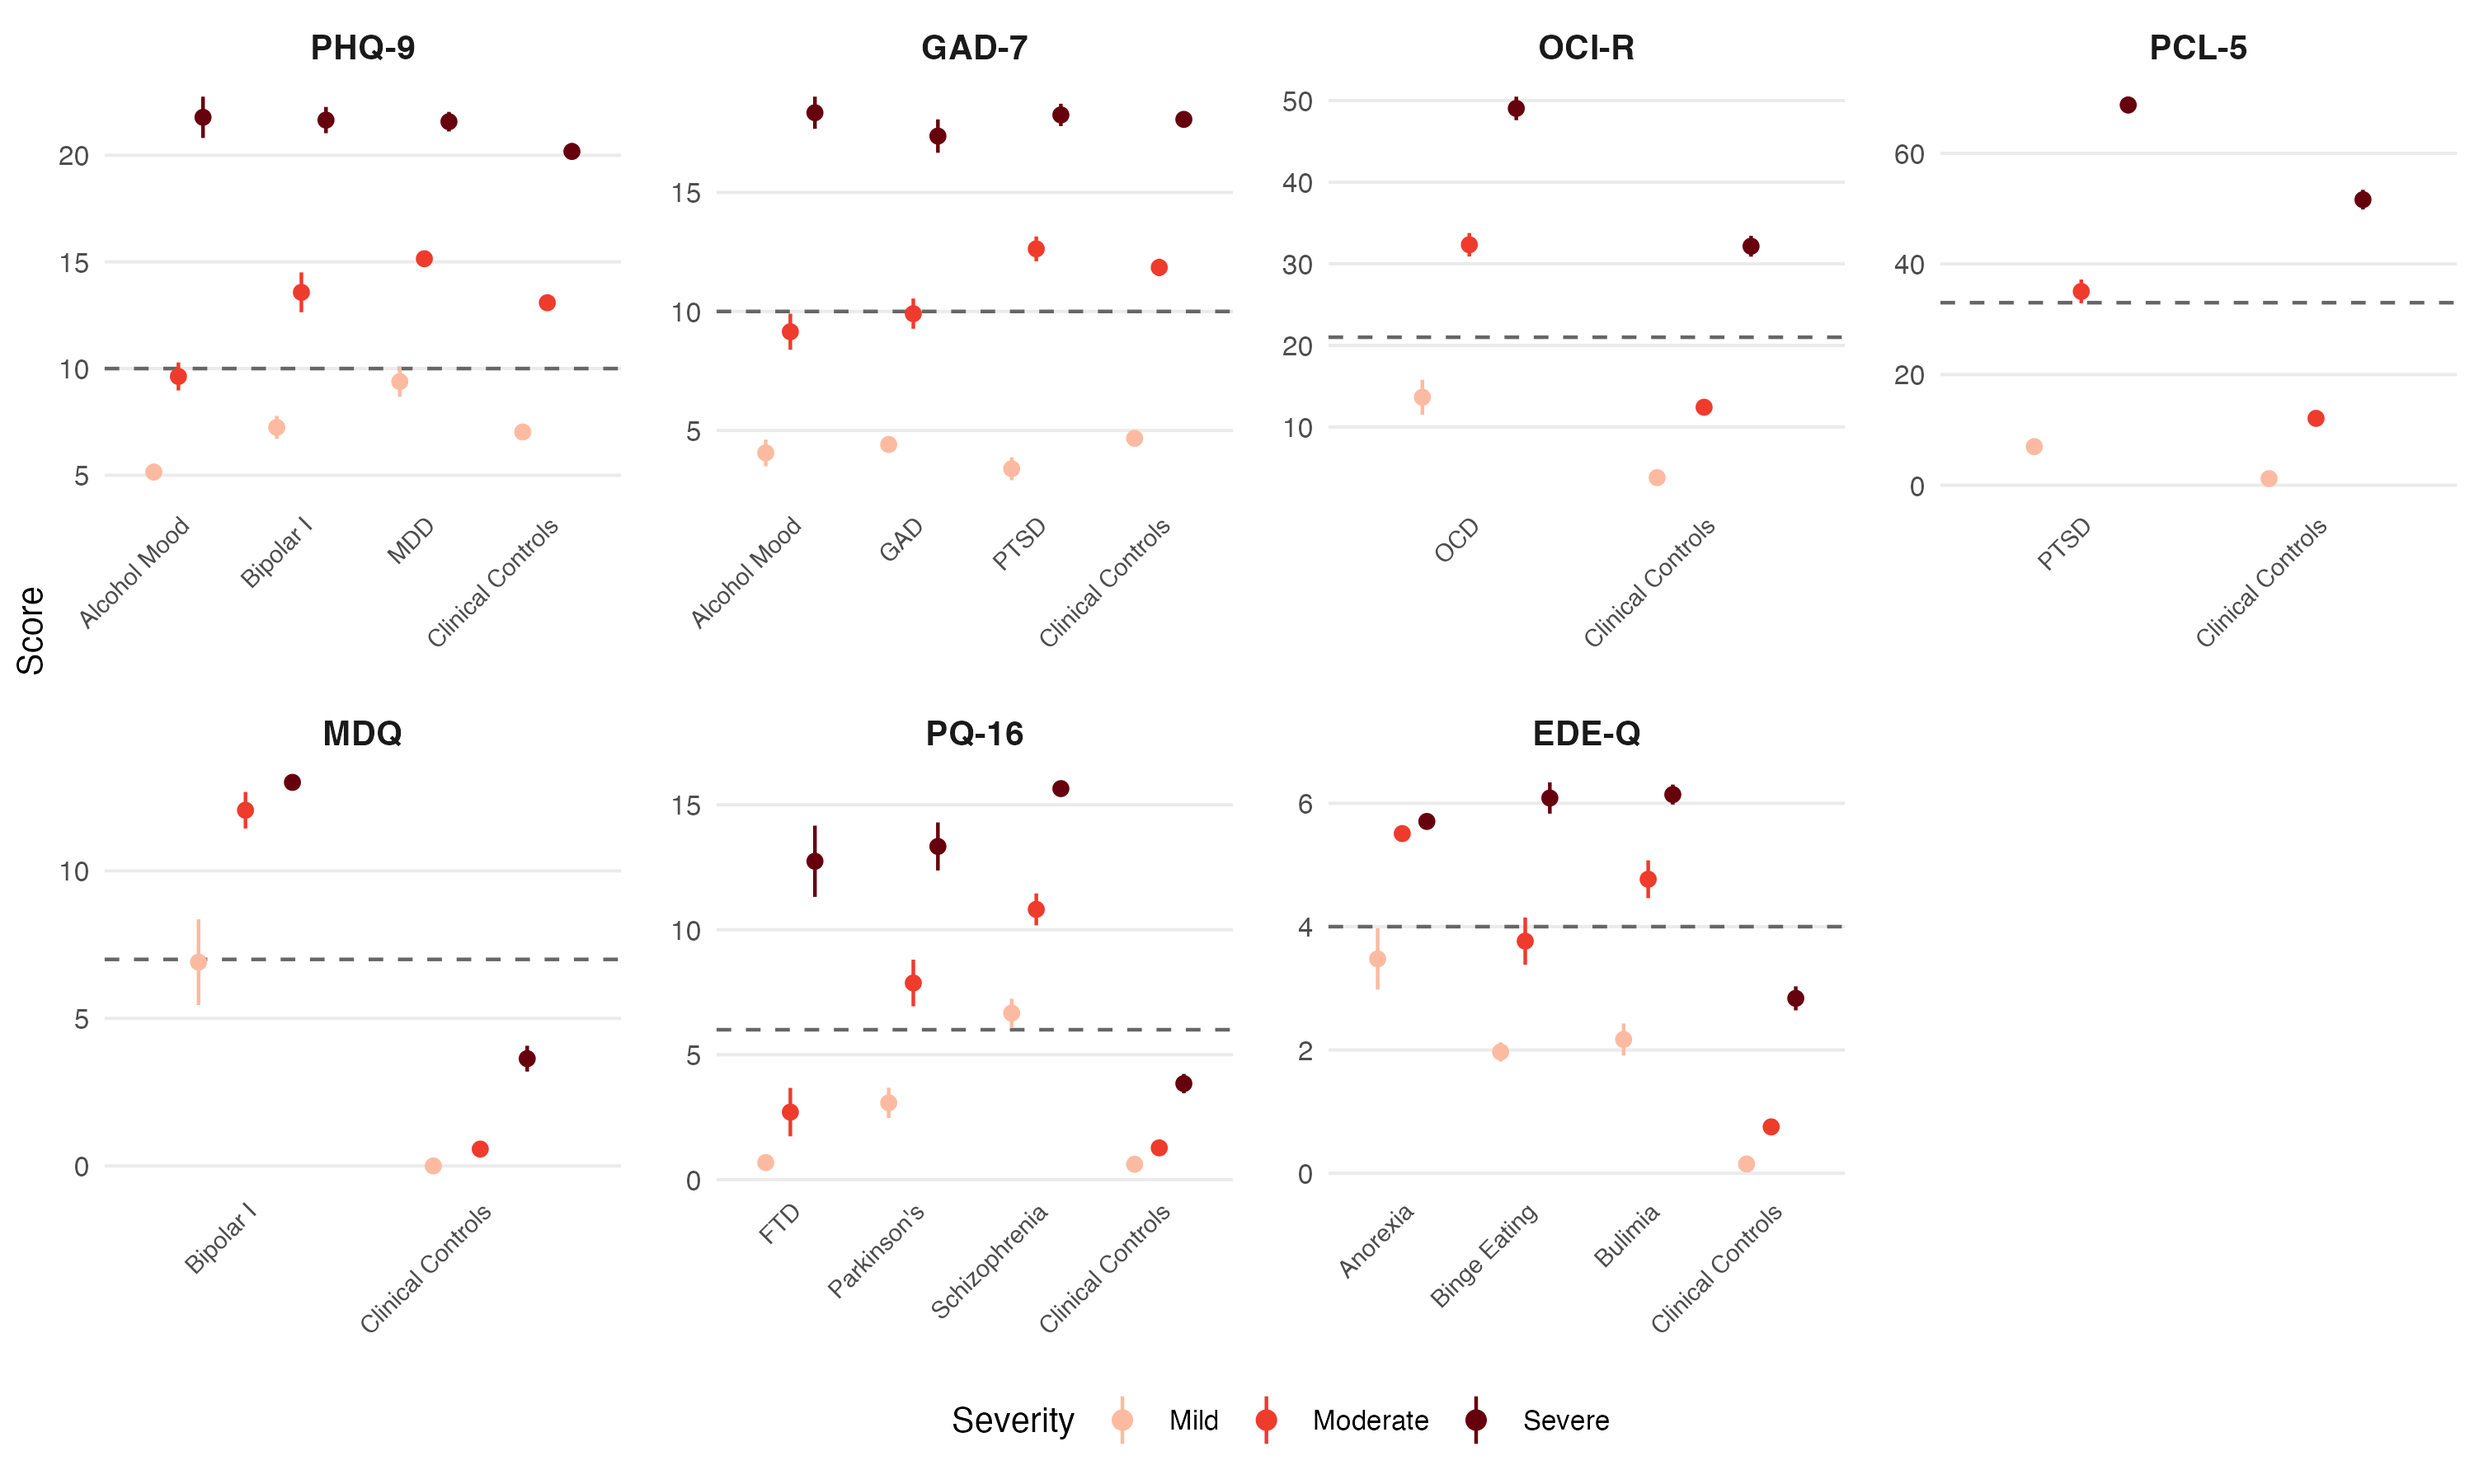
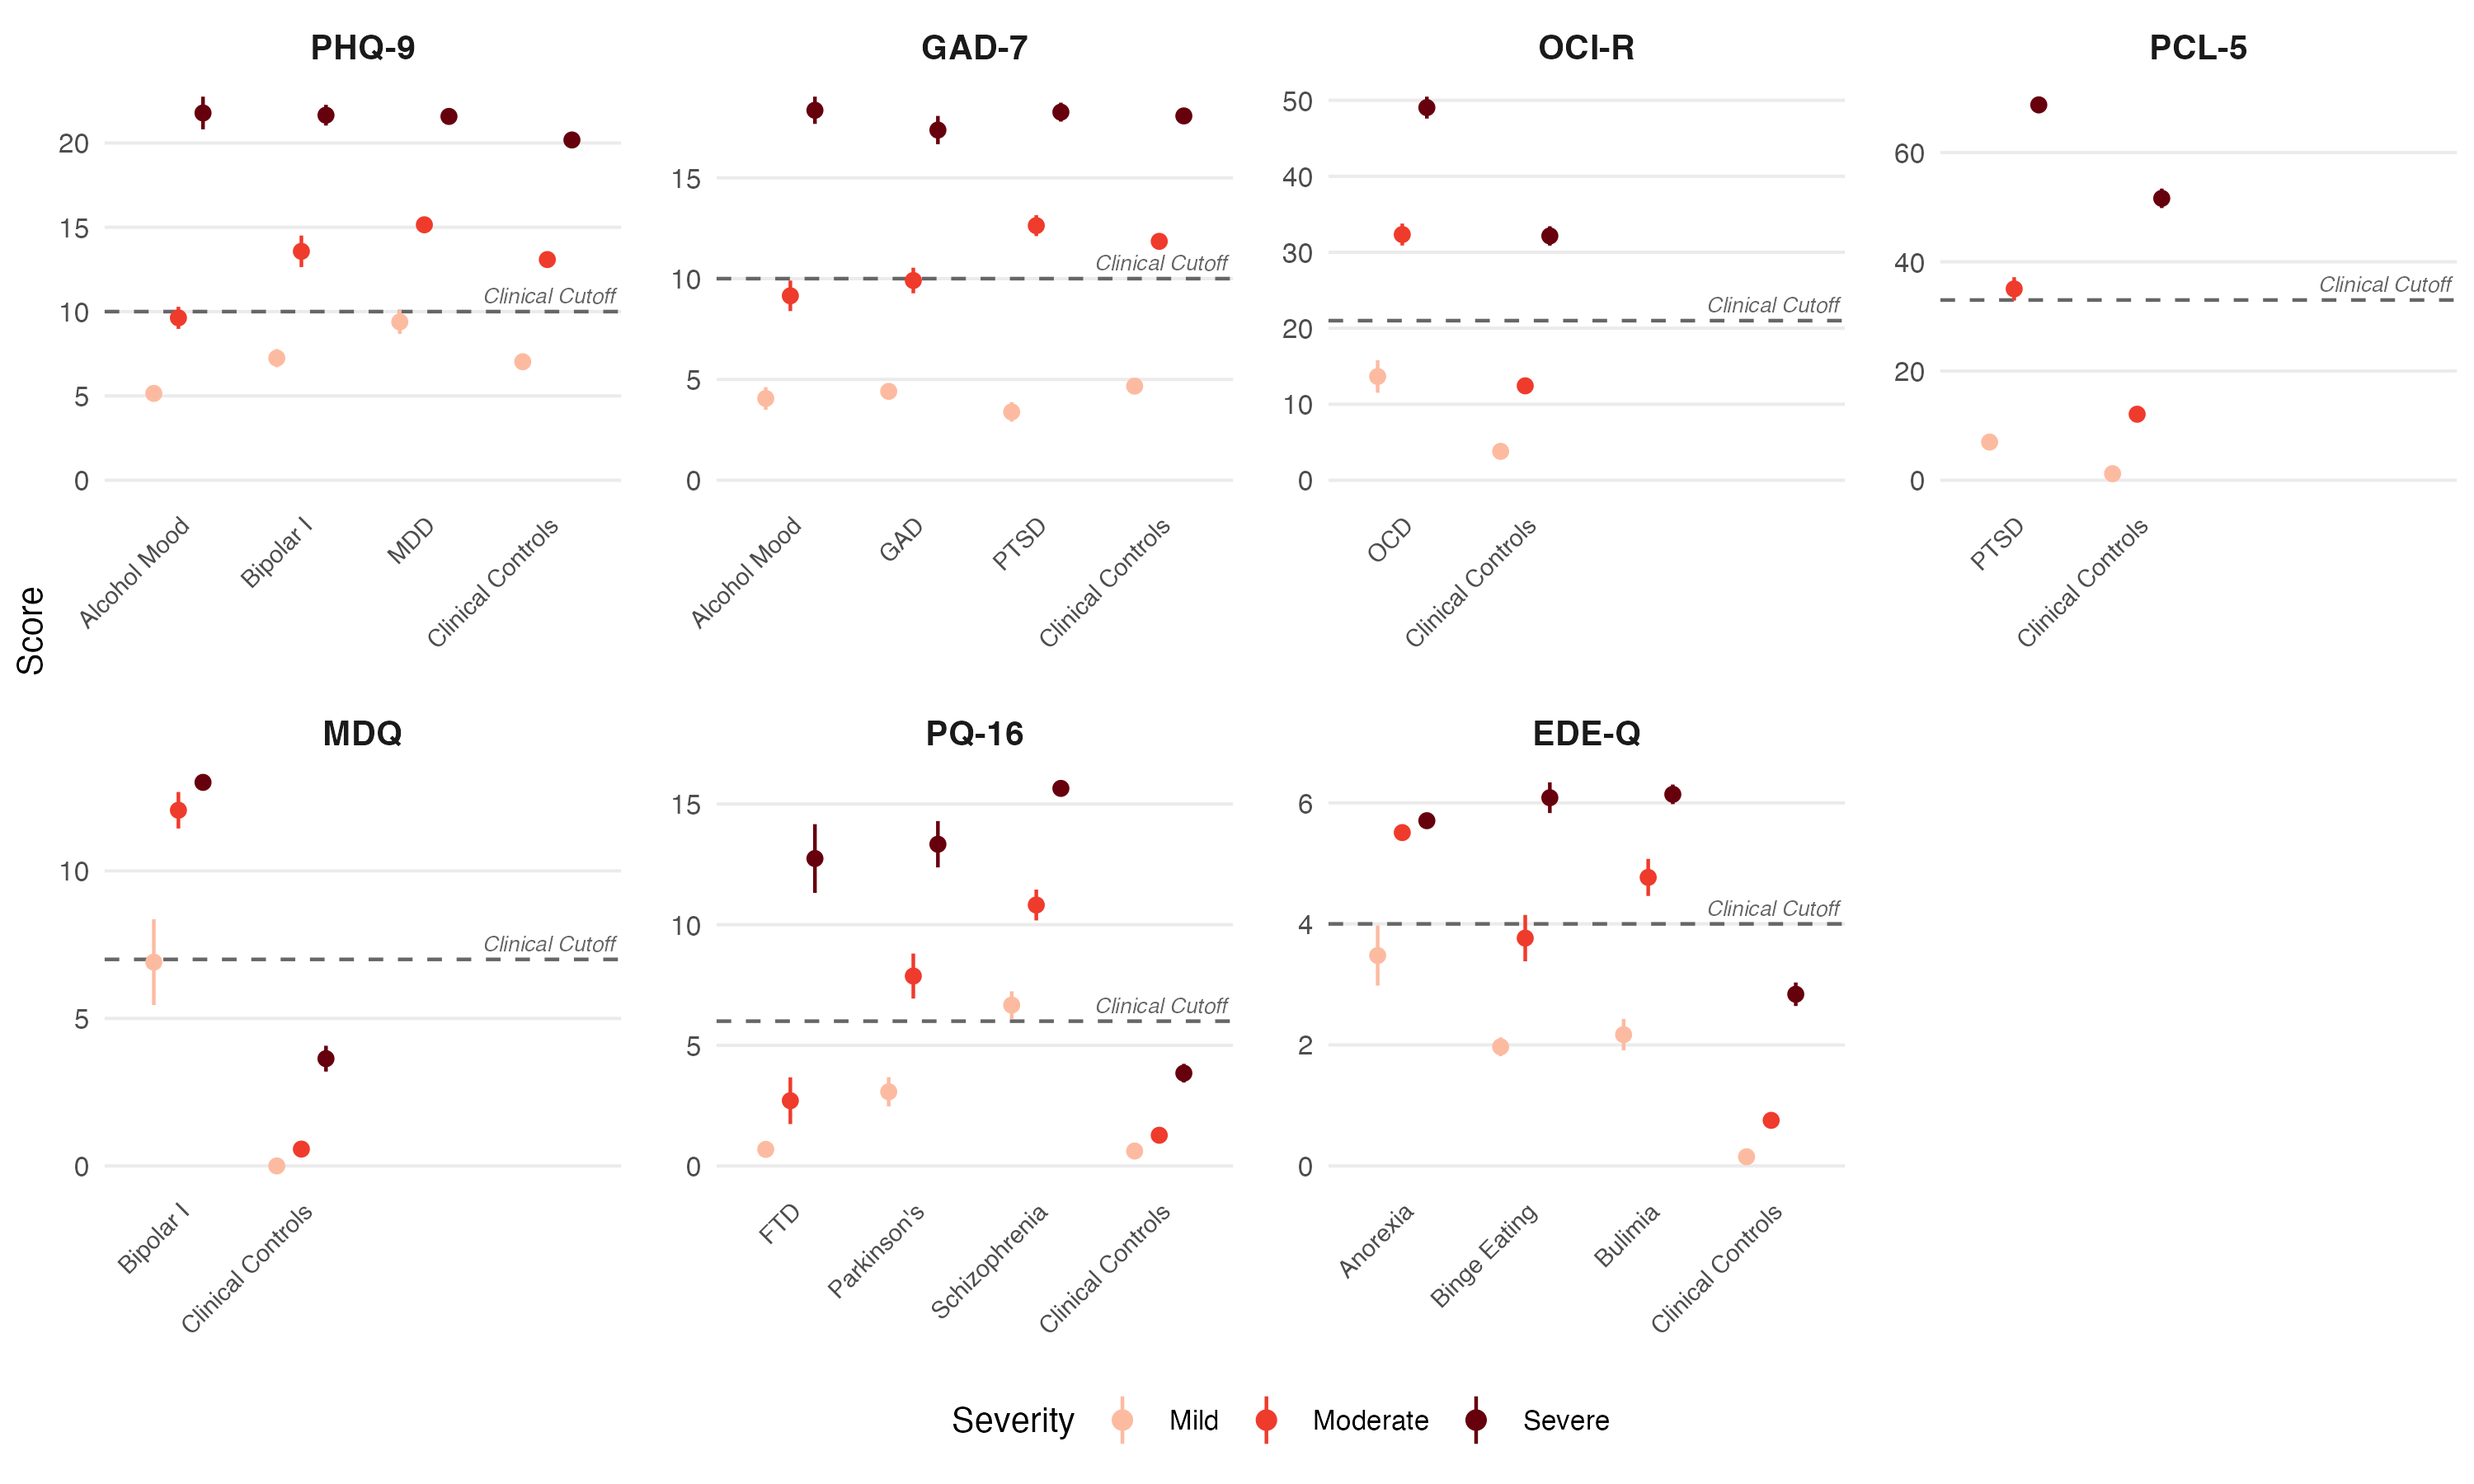
Update Figure 1: Enhance clinical target group visualization with error bars and clinical cutoff annotations

diff --git a/paper/main.tex b/paper/main.tex
@@ -71,8 +71,8 @@ The triviality of this generation is the mechanism of the threat. Because a stan
 
 \begin{figure}[p]
   \centering
-  \includegraphics[width=\textwidth,height=0.85\textheight,keepaspectratio]{figures/figure1.pdf}
-  \caption{Synthetic respondent scores across seven validated clinical instruments. Each panel shows the distribution of total scores (or global scores for EDE-Q) for 13 diagnostic profiles at three severity levels (light: mild; medium: moderate; dark: severe). Diagnoses are sorted by median score of the severe condition. Red bold labels indicate diagnoses expected to score highest on each instrument. Boxplots show interquartile ranges with individual data points overlaid. $n = 2{,}028$ synthetic personas generated by Google Gemini 2.0 Flash.}
+  \includegraphics[width=\textwidth,height=0.85\textheight,keepaspectratio]{figures/figure1_new.pdf}
+  \caption{Synthetic respondent scores across seven validated clinical instruments. Each panel shows the mean score ($\pm$ 95\% CI) for clinically relevant diagnostic groups and an averaged clinical control group (all non-target diagnoses) at three severity levels (light: mild; medium: moderate; dark: severe). Dashed lines indicate published clinical cutoff scores. $n = 2{,}028$ synthetic personas generated by Google Gemini 2.0 Flash.}
   \label{fig:1}
 \end{figure}
 
